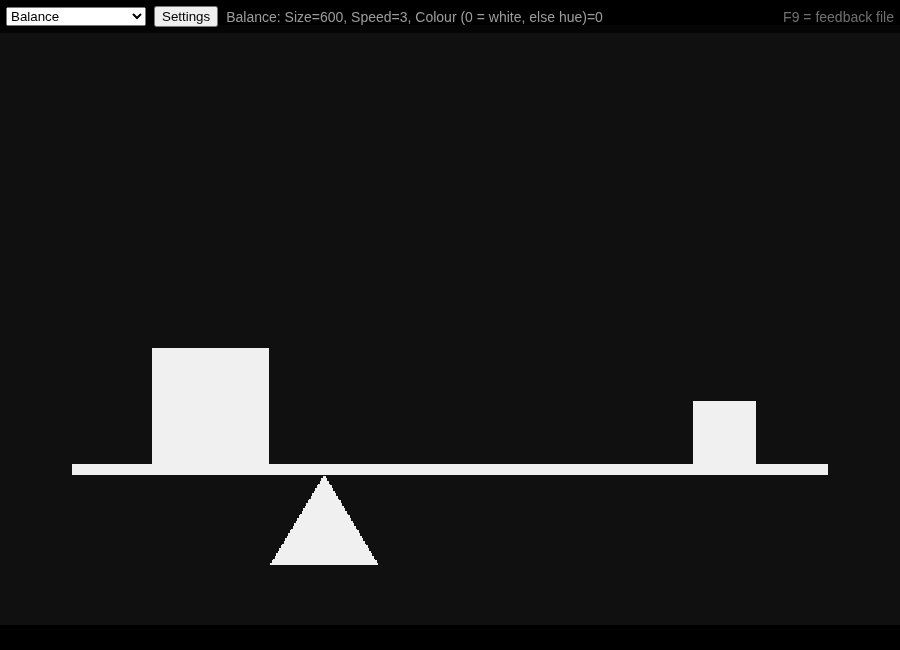
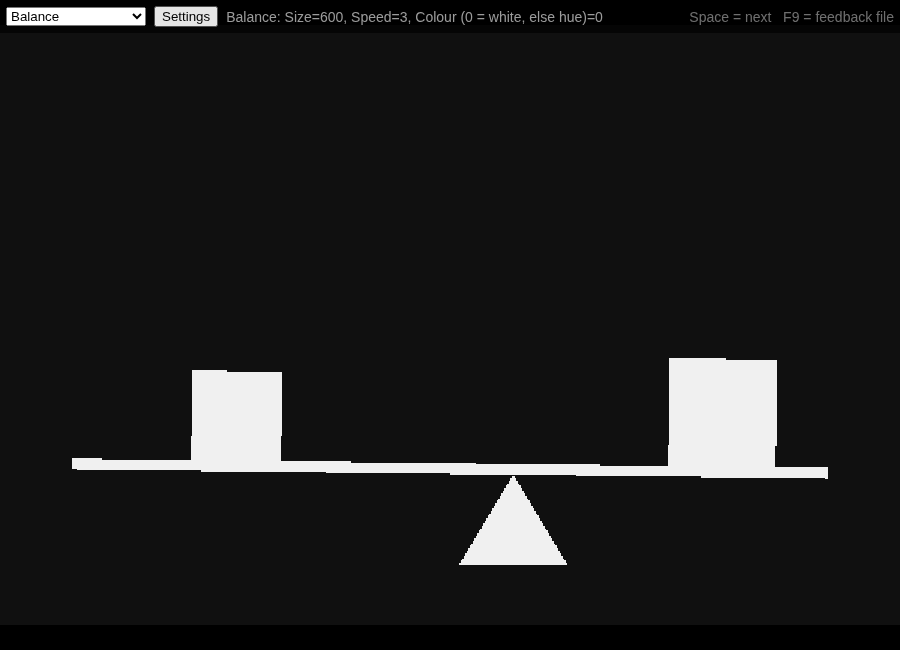
Balance: calmer, fixed sizes and pivot, rounds continue from current positions; Space = next visualization

diff --git a/dist/index.html b/dist/index.html
@@ -13,7 +13,7 @@
 <div id="bar">
  <select id="menu"><option value="-1">Cycle all (demo)</option></select>
  <button id="setBtn">Settings</button><span id="info"></span>
- <span style="margin-left:auto;opacity:.5">F9 = feedback file</span>
+ <span style="margin-left:auto;opacity:.5">Space = next &nbsp; F9 = feedback file</span>
 </div>
 <div id="setPanel" class="panel" hidden></div>
 <div id="crash" class="panel" hidden>The last session did not end cleanly.
@@ -21,7 +21,7 @@
 <canvas id="view"></canvas>
 <script>
 "use strict";
[2 lines of base64/hex data omitted]
 
 // One entry per Ada visualization; parameter order = Params (1 ..) in Ada.
 const VIZ = [
@@ -142,6 +142,15 @@ function frame() {
 setInterval(() => { fps = frames; frames = 0; }, 1000);
 
 // ---- F9: one feedback file with everything useful ----
+// ---- Space: next visualization (random in cycle mode, user settings otherwise) ----
+addEventListener("keydown", e => {
+  if (e.key !== " " || e.target.tagName === "INPUT" || e.target.tagName === "SELECT") return;
+  e.preventDefault();
+  note("space");
+  if (menu.value < 0) menu.onchange();       // next random one, cycle timer restarts
+  else { menu.value = (current + 1) % VIZ.length; menu.onchange(); }
+});
+
 addEventListener("keydown", e => {
   if (e.key !== "F9") return;
   e.preventDefault();

diff --git a/tests/browser-space-balance.js b/tests/browser-space-balance.js
@@ -1,0 +1,27 @@
+const {chromium} = require('playwright-core');
+(async () => {
+  const b = await chromium.launch({executablePath: '/usr/bin/google-chrome', headless: true});
+  const p = await (await b.newContext({viewport: {width: 900, height: 650}})).newPage(); const errs = [];
+  p.on('pageerror', e => errs.push(e.message));
+  await p.goto('file:///workspace/symmetry-visualizations/dist/index.html'); await p.waitForTimeout(500);
+  const names = [await p.textContent('#info')];
+  for (let i = 0; i < 3; i++) { await p.keyboard.press('Space'); await p.waitForTimeout(200); names.push((await p.textContent('#info')).split(':')[0]); }
+  console.log('cycle mode:', names.map(n => n.split(':')[0]).join(' -> '));
+  await p.selectOption('#menu', '8'); await p.keyboard.press('Space'); await p.waitForTimeout(300);
+  console.log('selected mode after Space: menu =', await p.$eval('#menu', m => m.options[m.selectedIndex].text), '|', await p.textContent('#info'));
+  await p.click('#setBtn'); await p.focus('input[data-v="0"][data-p="0"]'); await p.keyboard.press('Space');
+  console.log('space in input keeps:', await p.$eval('#menu', m => m.options[m.selectedIndex].text)); await p.click('#setBtn');
+  // sample the balance canvas for 22 s; a jump shows as a big change between samples
+  const diffs = await p.evaluate(async () => {
+    const c = document.getElementById('view').getContext('2d'); let prev = null, out = [];
+    for (let k = 0; k < 110; k++) {
+      await new Promise(r => setTimeout(r, 200));
+      const d = c.getImageData(0, 0, innerWidth, innerHeight).data; let n = 0;
+      if (prev) for (let i = 0; i < d.length; i += 4) if (d[i] !== prev[i]) n++;
+      prev = d; out.push(n);
+    } return out; });
+  console.log('changed px per 0.2s: max', Math.max(...diffs), 'median', diffs.slice().sort((a,b)=>a-b)[55]);
+  await p.screenshot({path: '/workspace/symmetry-visualizations/screenshots/balance.png'});
+  console.log('fps', await p.evaluate(() => fps), 'trap', await p.evaluate(() => fatal), 'errors', errs);
+  await b.close();
+})();

diff --git a/web/template.html b/web/template.html
@@ -13,7 +13,7 @@
 <div id="bar">
  <select id="menu"><option value="-1">Cycle all (demo)</option></select>
  <button id="setBtn">Settings</button><span id="info"></span>
- <span style="margin-left:auto;opacity:.5">F9 = feedback file</span>
+ <span style="margin-left:auto;opacity:.5">Space = next &nbsp; F9 = feedback file</span>
 </div>
 <div id="setPanel" class="panel" hidden></div>
 <div id="crash" class="panel" hidden>The last session did not end cleanly.
@@ -142,6 +142,15 @@ function frame() {
 setInterval(() => { fps = frames; frames = 0; }, 1000);
 
 // ---- F9: one feedback file with everything useful ----
+// ---- Space: next visualization (random in cycle mode, user settings otherwise) ----
+addEventListener("keydown", e => {
+  if (e.key !== " " || e.target.tagName === "INPUT" || e.target.tagName === "SELECT") return;
+  e.preventDefault();
+  note("space");
+  if (menu.value < 0) menu.onchange();       // next random one, cycle timer restarts
+  else { menu.value = (current + 1) % VIZ.length; menu.onchange(); }
+});
+
 addEventListener("keydown", e => {
   if (e.key !== "F9") return;
   e.preventDefault();

diff --git a/README.md b/README.md
@@ -10,6 +10,7 @@ Open `dist/index.html` in any modern browser (double-click it). You don't need a
 * On start it **cycles** through all visualizations with random parameters (15 s each).
 * The **menu** (top left) selects one visualization, which then runs until you change it.
 * **Settings** lets you set every parameter of every visualization. Click *Apply*; values are remembered.
+* **Space** jumps to the next visualization. In cycle mode it gets random parameters and the 15 s timer restarts. Otherwise the menu moves on and the next one runs with your settings.
 * **F9** downloads a feedback file (`feedback-*.json`). It contains the version, browser, the current visualization and parameters, settings, fps, errors and the recent event log.
 * **Crash reports:** the last 200 events are kept in the browser's localStorage. If the previous session did not end cleanly (tab crash, hang, WebAssembly trap), a red notice offers `crash-report-*.json`. That file holds the events before the crash and the first events after the reload.
 
